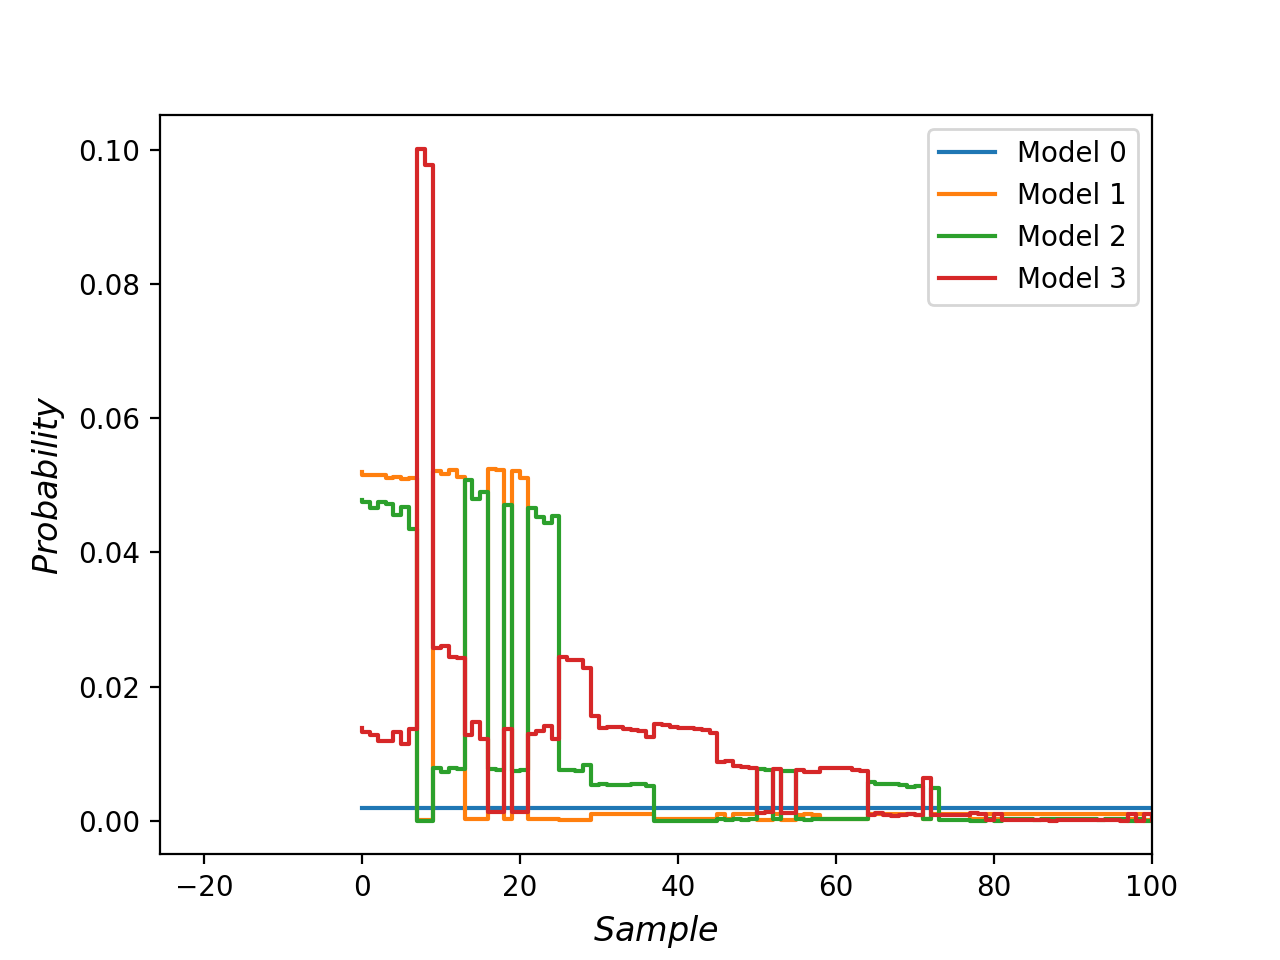
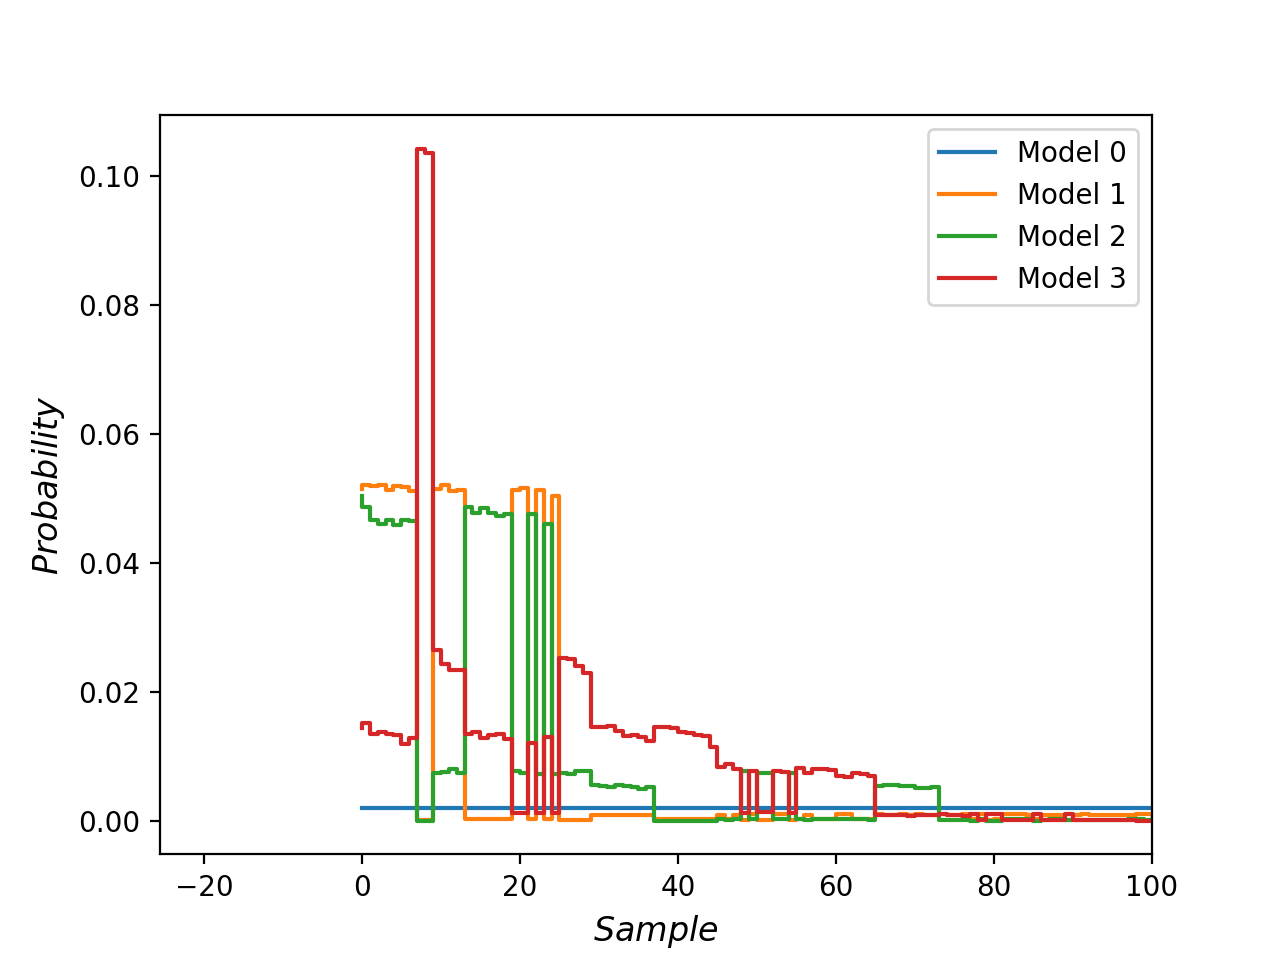
Assignment 1 finished

diff --git a/Assignments/A1/Practical/Practice3.py b/Assignments/A1/Practical/Practice3.py
@@ -45,9 +45,9 @@ def M1(dataset, param):
         for j in range(dataset.shape[1]):
             
             x = 0
-            if j == 0:
+            if i == 0:
                 x = -1
-            elif j == 2:
+            elif i == 2:
                 x = 1
 
             result *= (1 / (1 + exp(-dataset[i][j] * param * x)))
@@ -62,13 +62,13 @@ def M2(dataset, param1, param2):
 
             x1 = 0
             x2 = 0
-            if j == 0:
+            if i == 0:
                 x1 = -1
-            elif j == 2:
+            elif i == 2:
                 x1 = 1
-            if i == 2:
+            if j == 2:
                 x2 = -1
-            elif i == 0:
+            elif j == 0:
                 x2 = 1
 
             result *= (1 / (1 + exp(-dataset[i][j] * (param1 * x1 + param2 * x2))))
@@ -83,13 +83,13 @@ def M3(dataset, param1, param2, param3):
 
             x1 = 0
             x2 = 0
-            if j == 0:
+            if i == 0:
                 x1 = -1
-            elif j == 2:
+            elif i == 2:
                 x1 = 1
-            if i == 2:
+            if j == 2:
                 x2 = -1
-            elif i == 0:
+            elif j == 0:
                 x2 = 1
 
             result *= (1 / (1 + exp(-dataset[i][j] * (param1 * x1 + param2 * x2 + param3))))
@@ -97,8 +97,8 @@ def M3(dataset, param1, param2, param3):
     return result
 
 def getParameter(model):
-    mean = np.zeros(model)
-    #mean = 5 * np.ones(model) Uncoment for mean 5
+    #mean = np.zeros(model)
+    mean = 5 * np.ones(model) #Uncoment for mean 5
     variance = pow(10,2) * np.identity(model)
     #variance = np.random.rand(model,model)
     #variance = pow(10,2) * np.dot(variance, np.transpose(variance)) Uncoment for semi-definite random covariance
